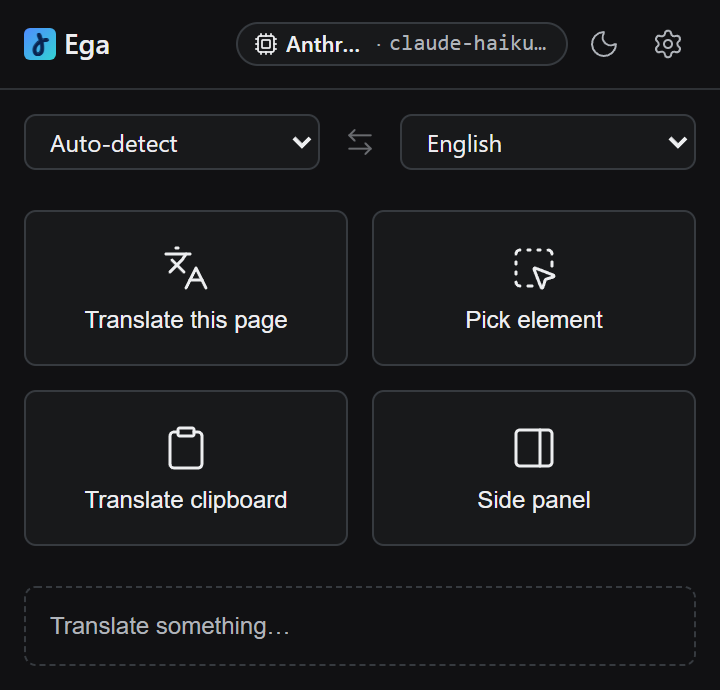
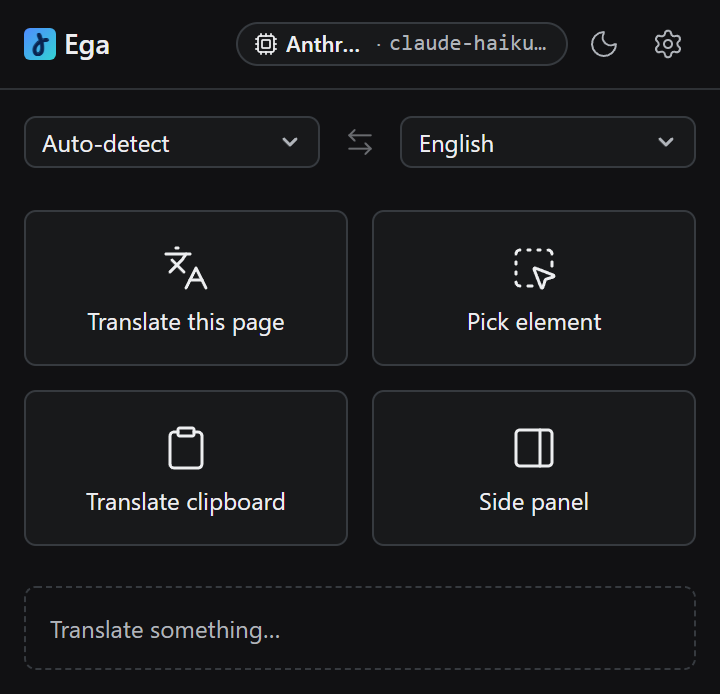
fix(ui): give buttons and form fields the UI font
Chrome's own stylesheet sets Arial on button, input, select and textarea, and each page set its
font on body only, so every button read in a different typeface. One zero-specificity rule in the
shared tokens makes them inherit; a component's own font still wins. Win32 baselines and the
README shots re-shot.

diff --git a/src/shared/tokens.css b/src/shared/tokens.css
@@ -274,6 +274,11 @@
   }
 }
 
+/* Chrome gives form controls their own font (Arial); zero specificity so any component font still wins. */
+:where(button, input, select, textarea) {
+  font-family: inherit;
+}
+
 button:not(:disabled):active {
   transform: scale(0.97);
   transition: transform 60ms var(--ease-out);
